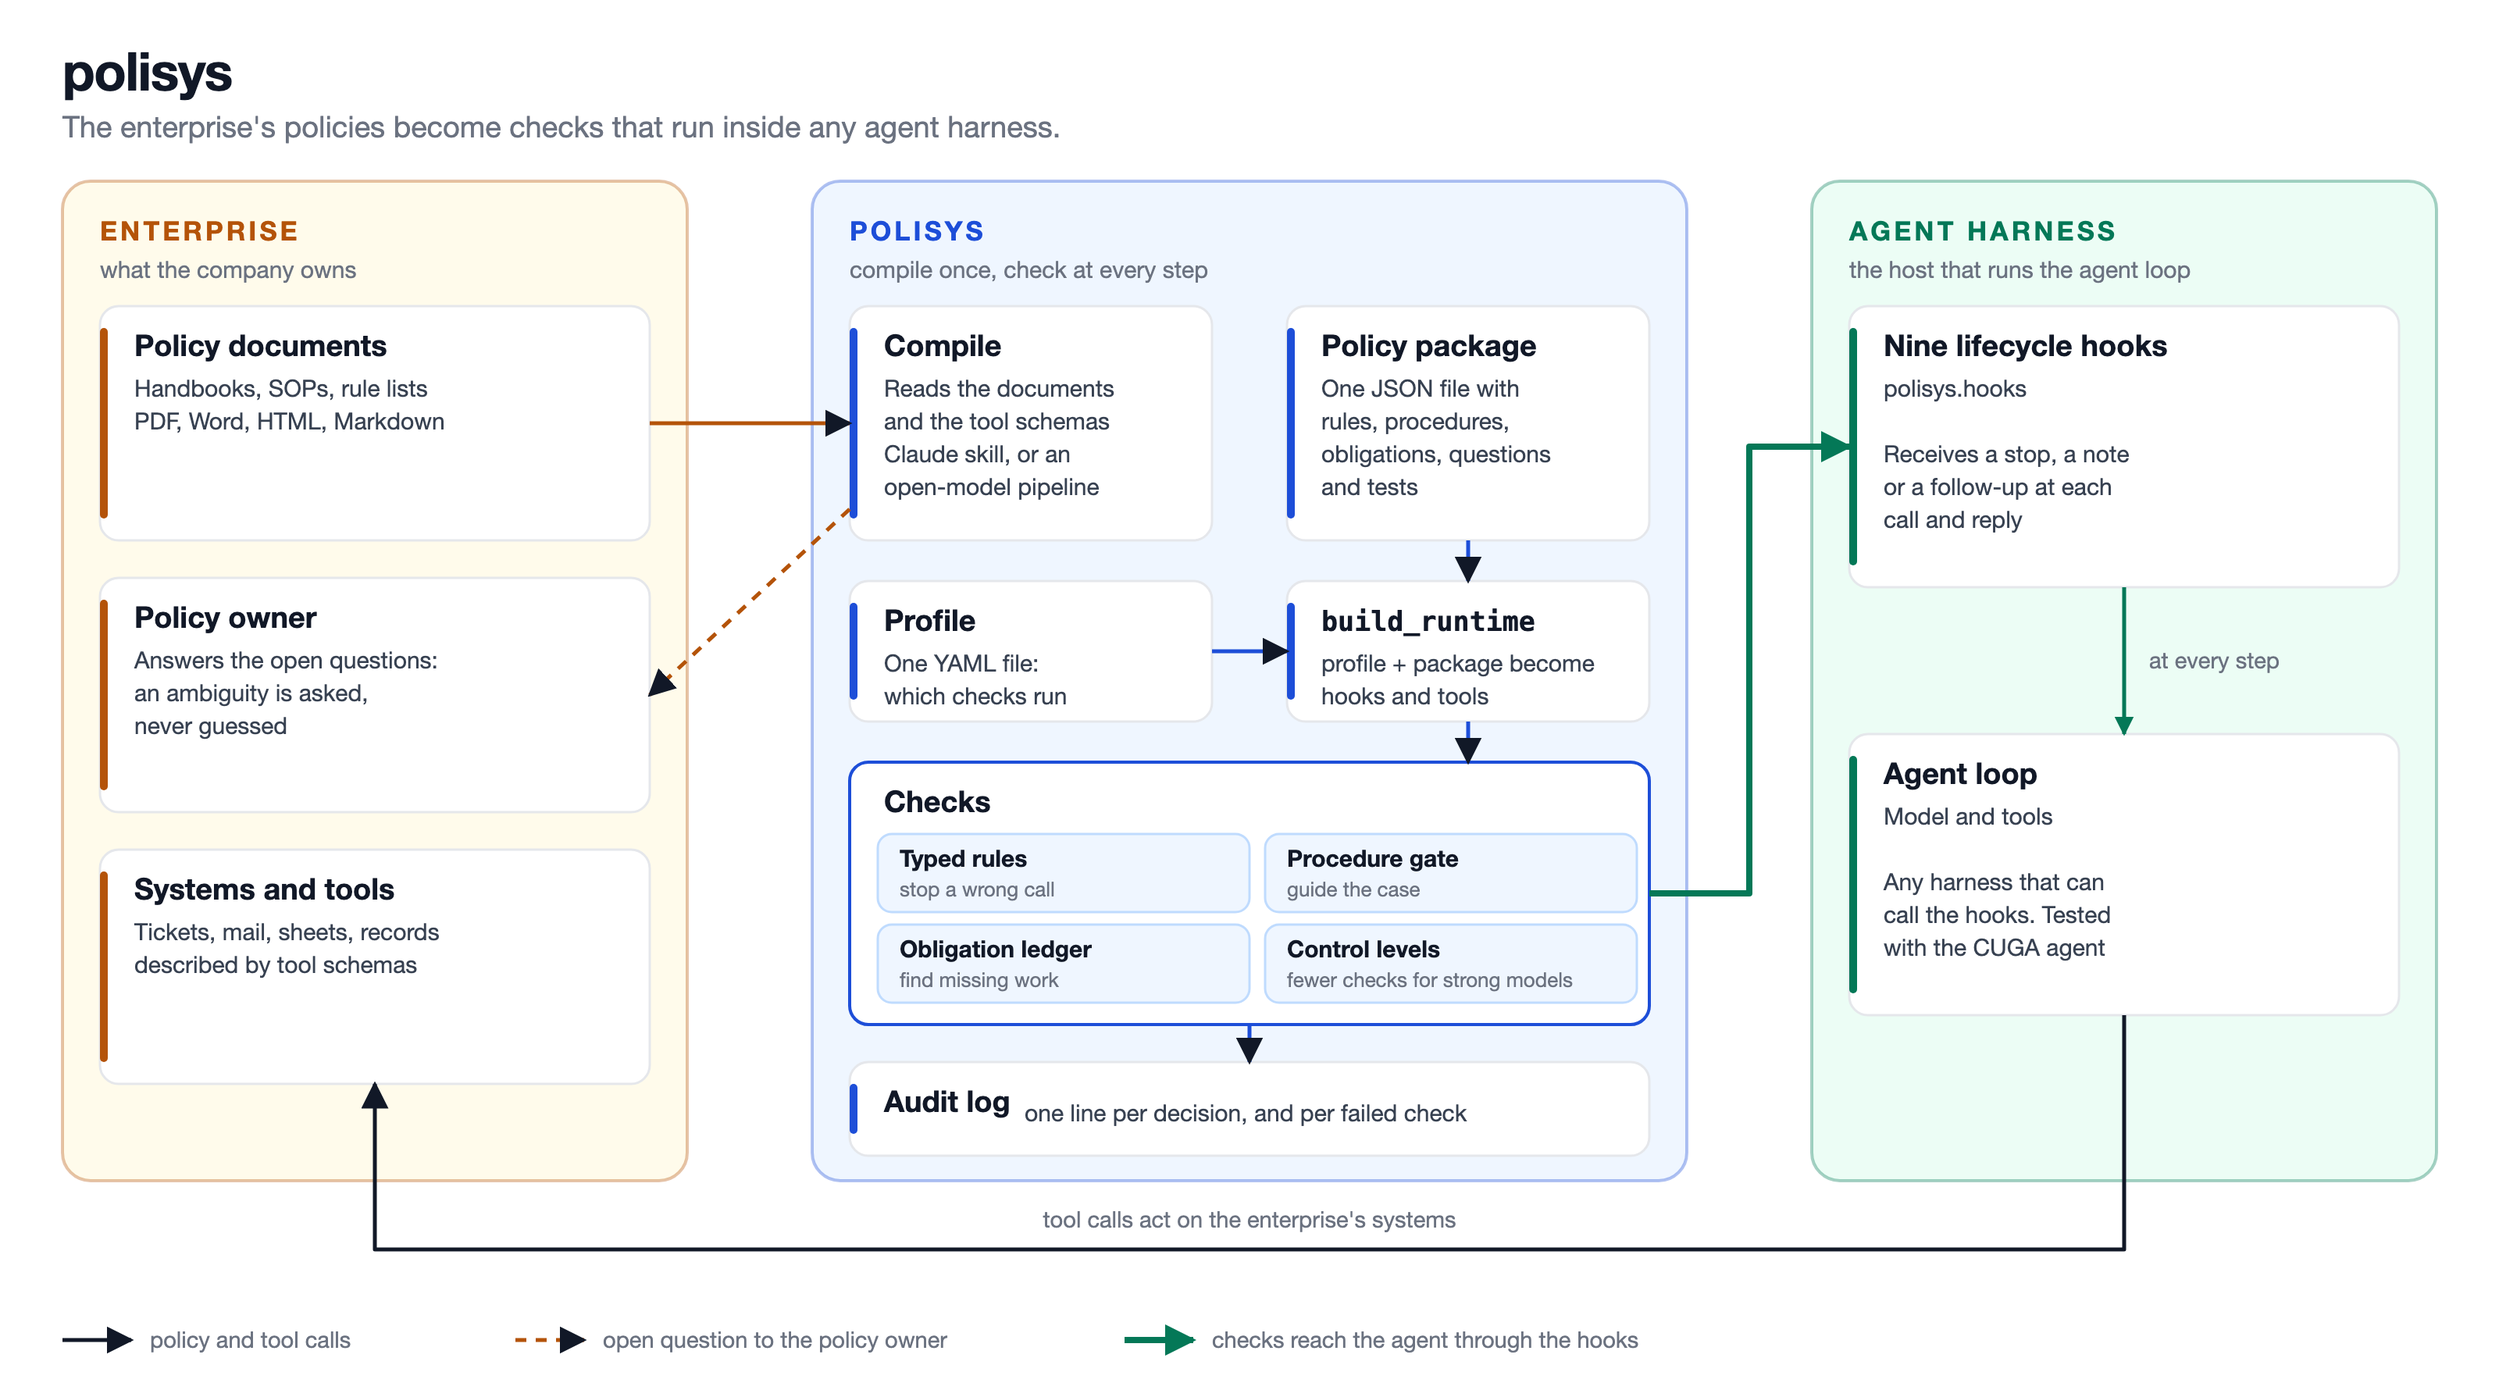
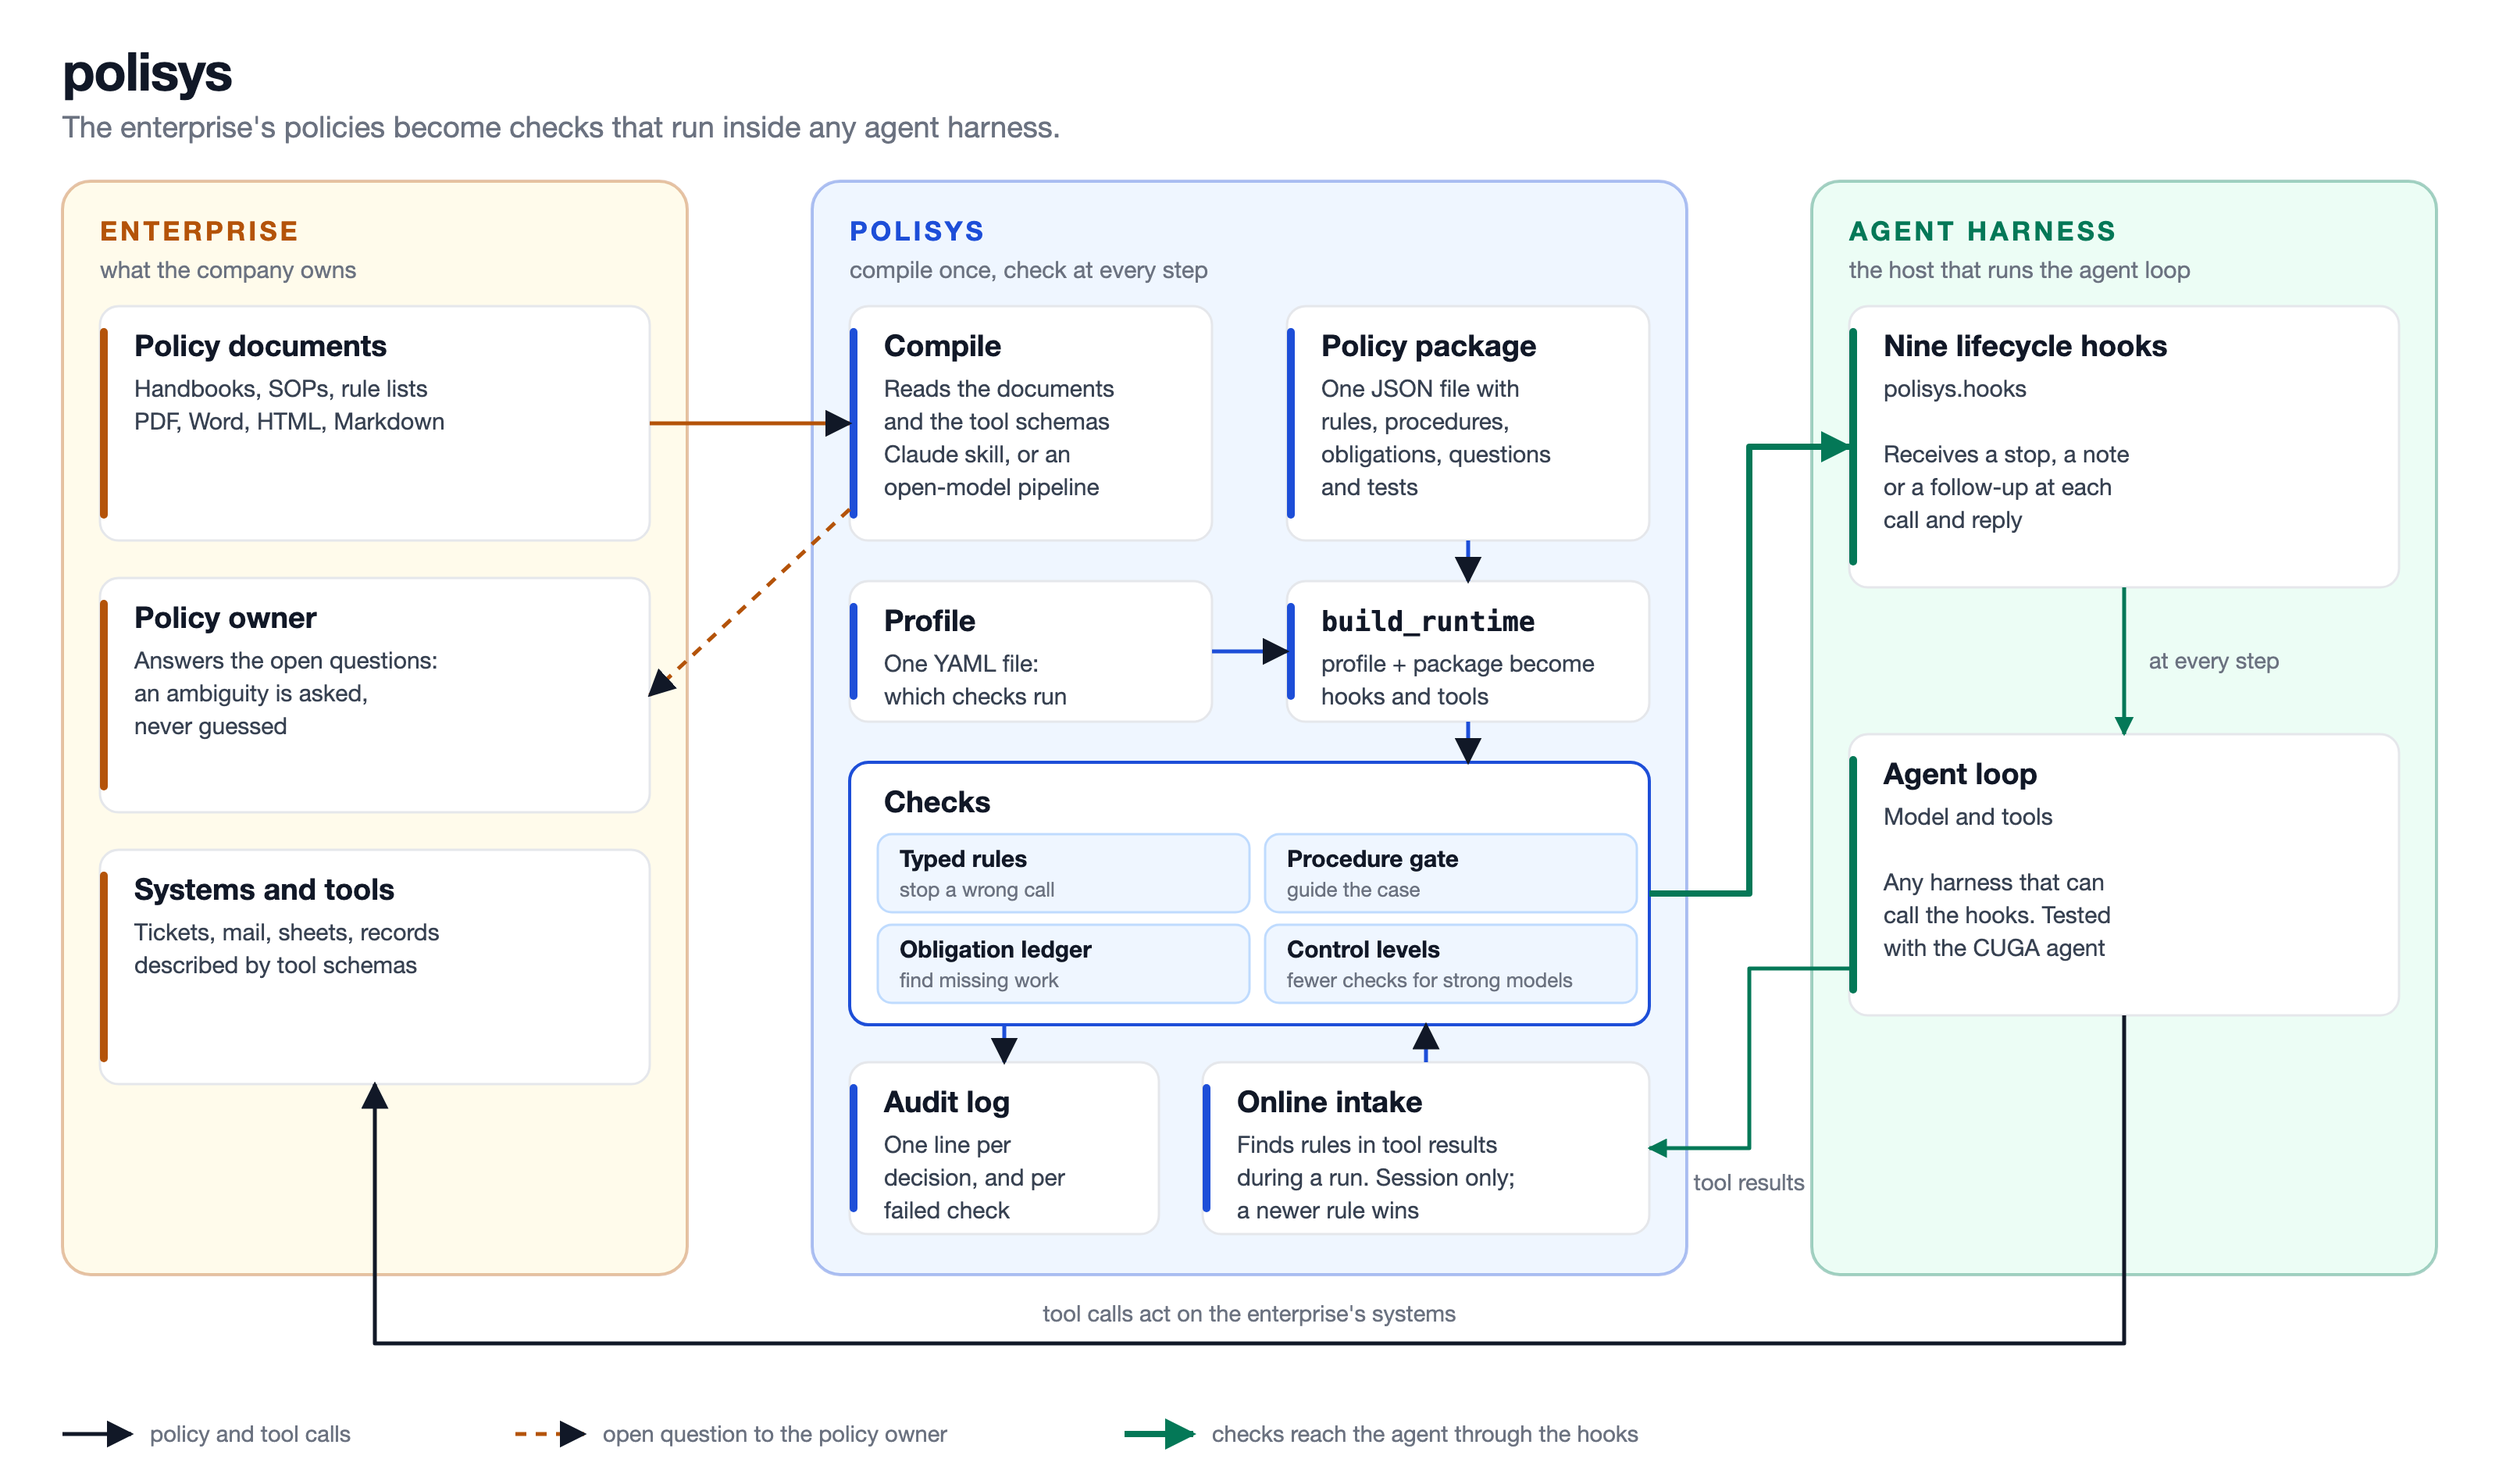
Architecture diagram as a native SVG, with online intake

diff --git a/README.md b/README.md
@@ -28,9 +28,9 @@ Three parties meet in polisys. The **enterprise** owns the policies and the syst
 policies into a package and turns it into checks. The **agent harness** (the host that runs the agent loop) calls those checks
 at its lifecycle hooks. Nothing in polisys contains an agent, and the harness needs nothing from polisys but the hook contract.
 
-![polisys architecture: the enterprise, polisys and the agent harness](docs/architecture.png)
+![polisys architecture: the enterprise, polisys and the agent harness](docs/diagrams/architecture.svg)
 
-<sub>Source: [docs/diagrams/architecture.html](docs/diagrams/architecture.html), rendered with `docs/diagrams/render.sh`.</sub>
+<sub>Source: [docs/diagrams/architecture.svg](docs/diagrams/architecture.svg); `docs/diagrams/render.sh` makes the PNG copy.</sub>
 
 | Party | Owns | Gives to polisys | Gets from polisys |
 |---|---|---|---|
